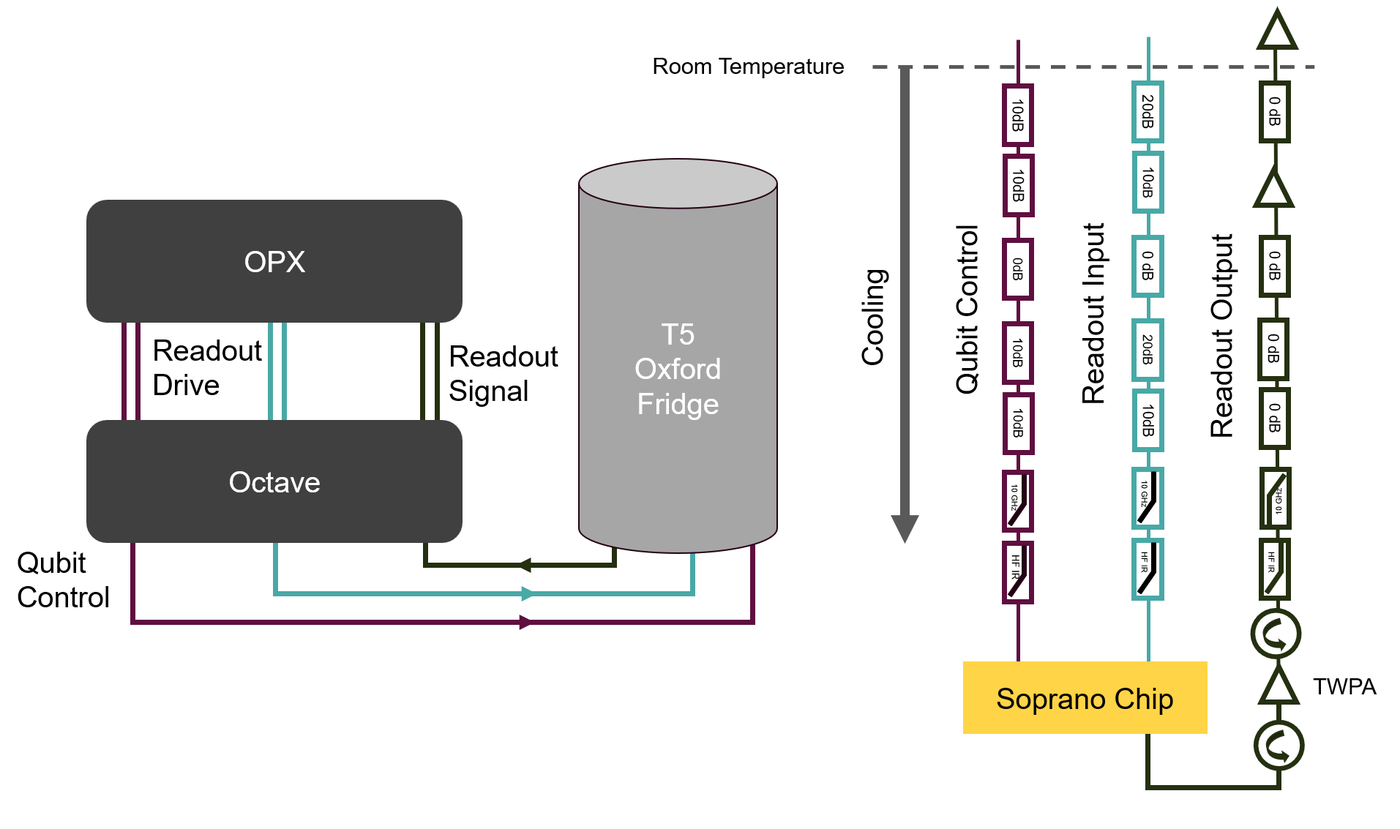
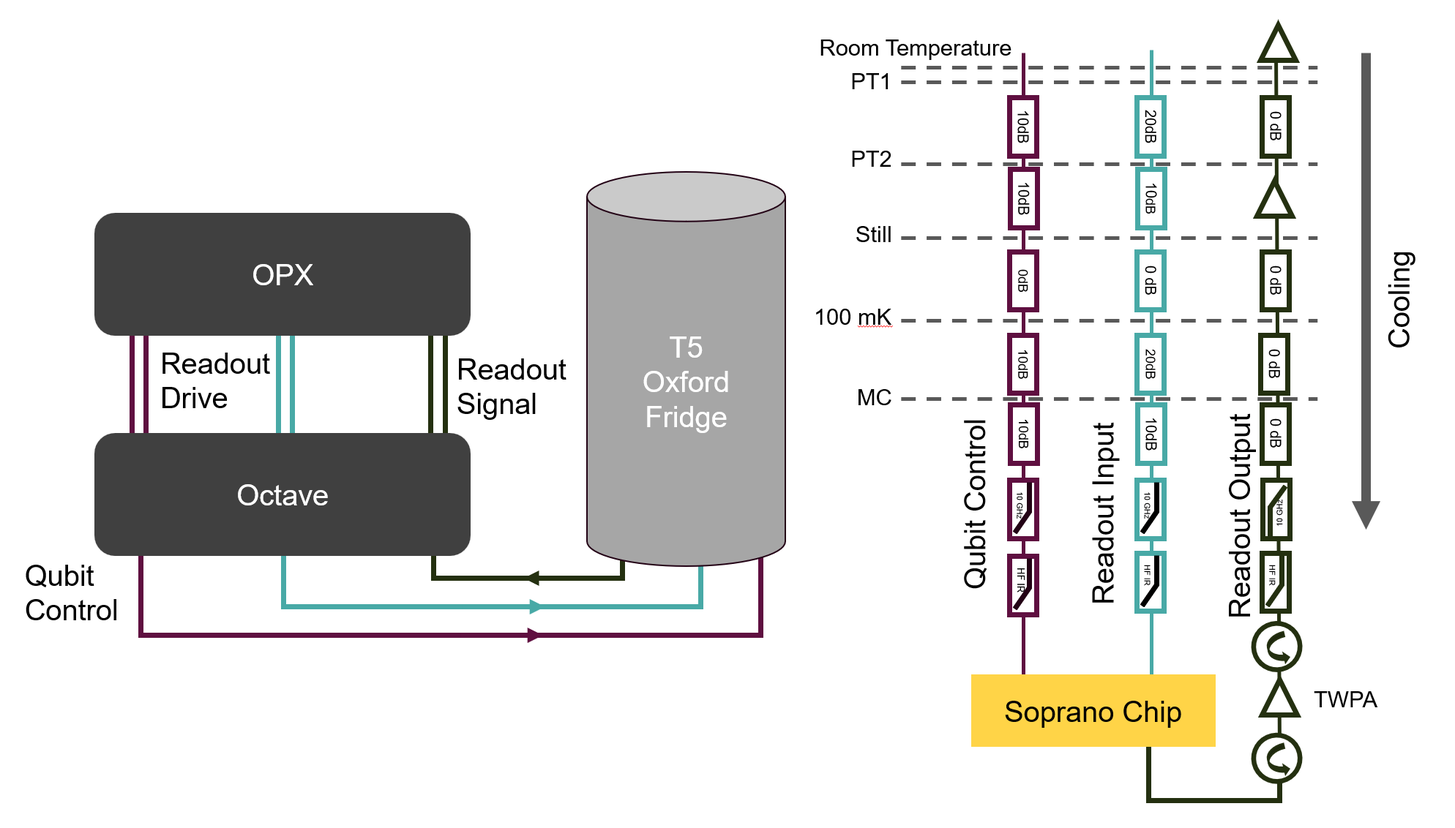
Updates from Overleaf

Changed region(s): [[0.0, 0.0, 0.9869, 0.9894], [0.1542, 0.5565, 0.2467, 0.6184]]

diff --git a/tex/sections/6_reaodut_strategies.tex b/tex/sections/6_reaodut_strategies.tex
@@ -3,7 +3,7 @@ We will now determine how well readout can be done on our experimental setup. In
 % With the knowledge of how readout are carried out, we are now ready to take on the actual readout process. In this chapter, we will be performing the analysis of a readout process from the laboratory to determine how good it is.
 
 \section{Experimental Setup}
-We will first provide an overview of the experimental setup consisting of three main parts: the quantum device, where the qubit is, the control hardware at room temperature and how it is connected as well as cooled.
+We will first provide an overview of the experimental setup consisting of three main parts: the quantum device, the control hardware at room temperature, and how it is connected as well as cooled.
 
 % While most of the work in this thesis will be theoretical and computational, we will try to understand, calibrate and model a physical system. This section will serve as a short overview of the setup.
 % \todo{Write this section properly.}
@@ -12,26 +12,20 @@ We will first provide an overview of the experimental setup consisting of three 
 The experiments are run on the Soprano Chip with 6 qubits. We run all experiment on qubit 2 (see figure \ref{fig:soprano}) and will effectively think of the whole system as a one qubit system. Qubit 2 is a flux tuneable transmon which is connected to a resonator, a control line and flux line used to tune the frequency. The resonator is connected to a feed line which is further connected to the five other resonators. While the qubit is flux tuneable, we will throughout all experiments have it set to the sweet spot,  where we are the least sensitive to flux noise. 
 
 \begin{figure}[h]
-    \begin{minipage}{0.50\textwidth}
-        \centering
-        \includegraphics[height = 5 cm]{Figs/hardware/layout.png}
-    \end{minipage}
-        \begin{minipage}{0.50\textwidth}
-        \centering
-        \includegraphics[height = 5 cm]{Figs/hardware/layout_photo.png}
-    \end{minipage}
-    \caption{The Soprano Chip layout and a picture of the chip. Experiments are run on Qubit 2 labeled "q2" in the schematic.}
+    \centering
+    \includegraphics[width = \textwidth]{Figs/hardware/qubit.png}
+    \caption{The Soprano Chip layout without indicated feed lines and couplings to qubit 2 which is used.}
     \label{fig:soprano}
 \end{figure}
 
 \subsection{Control Hardware}
 In order to control the qubit and drive the resonator, we need to be able to create pulses with the right frequency and envelope. For this, we use an arbitrary waveform generator and data processing device. In this experiment, this is done with an OPX \cite{noauthor_opx_nodate}. The OPX outputs two signals to drive the qubit and two to the readout line corresponding to the $I$ and $Q$ signal. And has two input channels for readout signal. The envelope of the pulses can be made with a resolution of 1 GS/s and can process waves with a frequency of 400 MHz. In addition, it has an on-board Field-programmable gate array (FPGA) which is used to compile pulses and demodulate the signal. 
 
-Since the signal needed for qubit and resonator control is of order 5-10 GHz, another device for up- and down-conversion is needed. In our experiment, we make use of the Octave \cite{noauthor_octave_nodate}. The Octave has multiple local oscillators for down converting signal one of which support up conversion as well. The upconversion is used for the readout line while another local oscillator is used to generate pulses for qubit control. A schematic of the control hardware setup can be seen to the left in figure \ref{fig:Fridge_control_hardware_setup}.
+Since the signal needed for qubit and resonator control is of order 5-10 GHz, another device for up- and down-conversion is needed. In our experiment, we make use of the Octave \cite{noauthor_octave_nodate}. The Octave has three local oscillators for down converting signal one of which support up conversion as well. The upconversion is used for the readout line while another local oscillator is used to generate pulses for qubit control. A schematic of the control hardware setup can be seen to the left in figure \ref{fig:Fridge_control_hardware_setup}.
 
-The two control devices are controlled by using accessing an API using Python. For this thesis the higher level module OPX\_Control was used which simplifies writing and running experiment using the OPX and Octave \cite{hastrup_cqed_nodate}. 
+The two control devices are controlled by using QUA  an API using Python. For this thesis the higher level module OPX\_Control\cite{hastrup_cqed_nodate}. , an in-house developed module based on QUA which   was used which simplifies writing and running experiment using the OPX and Octave 
 
-In addition to the driving lines, a DC line is also coupled directly from the OPX to the fridge to adjust the flux in the qubit. This will be constant for all experiments in the qubit sweet spot, so we will for the most part ignore it for now. 
+In addition to the driving lines, a line from the OPX is also coupled directly to the fridge which is used to adjust the flux in the qubit and thereby its frequency. This will be constant for all experiments at the qubit sweet spot, so we will for the most part ignore it for now. 
 
 
 \begin{figure*}[t]
@@ -43,15 +37,15 @@ In addition to the driving lines, a DC line is also coupled directly from the OP
 
 
 \subsection{Cooling and Amplifiation}
-To keep the soprano chip just above the absolute zero, it is places in a Cryostate capable of cooling to $\approx 30 \text{mK}$. In the right side of  figure \ref{fig:Fridge_control_hardware_setup}, we have illustrated the qubit and resonator drive line from room temperature to the chip, and the returning signal from the resonator and up to room temperature again. For simplicity, we have only illustrated one microwave control line, one readout drive line and one readout signal line\footnote{There are many others which share similar ideas. These consists of other qubit conotrl lines, flux lines and a line for a local oscillator to drive the TWPA}.
+To keep the soprano chip as close to the absolute zero as possible, it is places in a Cryostate capable of cooling to $\approx 30 \text{mK}$. In the right side of  figure \ref{fig:Fridge_control_hardware_setup}, we have illustrated the qubit and resonator drive line from room temperature to the chip, and the returning signal from the resonator and up to room temperature again. For simplicity, we have only illustrated one microwave control line, one readout drive line and one readout signal line\footnote{There are many others which share similar ideas. These consists of other qubit conotrl lines, flux lines and a line for a local oscillator to drive the TWPA}.
 
 The down conversion lines receive signal from the Octave and decreases the amplitude of the signal at multiple stages. At low temperatures high frequency signals are filtered out before the signal is applied to the qubit or to the resonator through the drive line.
 
-Since the output signal is of order of 10-100 photons, it is a high risk to be lost to thermal noise in the upconversion line. Therefore, multiple highly sophisticated amplification are needed. The first of which is Traveling Wave Parametric Amplifier (TWPA) \cite{mac}. The TWPA amplifies at low temperature and adds noise close to that of theoretical minimum. After the TWPA two other amplification are performed, before the signal exits the fridge and reenters the octave for IQ mixing. 
+Since the output signal is of order of 10-100 photons, it is a high risk to be lost to thermal noise in the upconversion line. Therefore, multiple highly sophisticated amplification are needed. The first of which is Traveling Wave Parametric Amplifier (TWPA) \cite{macklin_nearquantum-limited_2015}. The TWPA amplifies at low temperature and adds noise close to that of theoretical minimum. After the TWPA two other amplification are performed, before the signal exits the fridge and reenters the octave for IQ mixing. 
 
 
 \subsection{Demodulation of Readout Signal}\label{sec:demodulation}
-To do a readout of the resonator, a pulse is send at an intermediafe frequency, $\omega_{IF}$ from the waveform generator to the octave where it is mixed with a local oscillator signal, $\omega_{LO}$. This results in a high frequency pulse send to the fridge at the readout frequency.
+To do a readout of the resonator, a pulse is send at an intermediate frequency, $\omega_{IF}$ from the waveform generator to the octave where it is mixed with a local oscillator signal, $\omega_{LO}$. This results in a high frequency pulse send to the fridge at the readout frequency.
 
 After interacting with the resonator it is amplified and it enters the Octave with the form:
 \begin{equation}
@@ -172,7 +166,7 @@ To determine the readout fidelity of our superconducting qubit, we will now do t
     \item We now apply a rectangular\footnote{We have a 10 $ns$ ramp-up and ramp-down period to avoid "kicking" the system". This is neglected in our analysis and later in simulations} resonator pulse at frequency $f_d = f_r$ (in between the two states shift) lasting $600 \text{ns}$. This starts movement in the IQ plane  analogous to what was described in section \ref{sec:resonator_decays}. The feed line output signal is monitored using a heterodyne measurement-scheme which we described in section \ref{sec:demodulation}. This leads to I and Q signal which is tracked digitized every $ns$ and stored for post processing.
     \item Steps 1-3 are repeated 1000 times for initialization $\rho_0$ and for initialization $\rho_1$.
 \end{enumerate}
-In the post processing (which is visualized in the top row of figure \ref{fig:readout_process}), we have the initialization label and the I and Q trajectories of the readout pulse. By demodulating them at the intermediate frequency and integrating the signal we arrive at one value set for $(I, Q)$. Plotting the distribution, we can find the projection line with the largest separation using Linear Discriminant Analysis. This is done by using the implementation in SKLearn \cite{predregoske_sklearn}. This allows us to project all points onto the axis resulting in a 1D histogram. By picking the threshold which maximizes the fidelity, we have a measure for the fidelity of this readout protocol. In our experiment this lead to the fidelity.
+In the post processing (which is visualized in the top row of figure \ref{fig:readout_process}), we have the initialization label and the I and Q trajectories of the readout pulse. By demodulating them at the intermediate frequency and integrating the signal we arrive at one value set for $(I, Q)$. Plotting the distribution, we can find the projection line with the largest separation using Linear Discriminant Analysis. This is done by using the implementation in SKLearn \cite{pedregosa_scikit-learn_nodate}. This allows us to project all points onto the axis resulting in a 1D histogram. By picking the threshold which maximizes the fidelity, we have a measure for the fidelity of this readout protocol. In our experiment this lead to the fidelity.
 \begin{equation}
     F_{\text{SPAM}} = 0.613\pm 0.018
 \end{equation}

diff --git a/tex/sections/7_calibration_from_IQ.tex b/tex/sections/7_calibration_from_IQ.tex
@@ -9,7 +9,7 @@ To simulate qubit-resonator trajectories of a readout, we will have to create a 
 We will start with a calibration of the Transmon. While we could solve the system by finding the values of $E_C$ and $E_J$, we will instead model the Transmon as a three level system and simulate the charge matrix as $\mel{k}{n}{k} = a + a^\dagger$\footnote{This gives us the right correlation between $\ket{0}\leftrightarrow \ket{1}$ and a close to correct connection from $\ket{1}\leftrightarrow\ket{2}$}. This leaves us to determine the frequency $f_{01}$ and the anharmonicity $\alpha$. Furthermore, in order to perform gates, we will calibrate a Rabi pulse. In addition to these parameters, we will determine the characteristic time for energy decay and dephasing  $T_1$ and $T_2$.
 
 \subsection{Spectroscopy}\label{sec:qubit_spectroscopy}
-To control the qubit and to simulate its Hamiltonian, perhaps the most important quantity is the frequency. The frequency is found by doing spectroscopy, where a pulse is sent to the qubit at different frequencies. The qubit is then measured to see if it has changed states. The qubit frequency $f_{01}$ will now be the center of a Lorentzian distribution \cite{hucul_trapped_ion}. Thus we can determine $f_{01}$ by fitting such a curve. This is done in the left panel in figure \ref{fig:qubit_spectroscopy}.
+To control the qubit and to simulate its Hamiltonian, perhaps the most important quantity is the frequency. The frequency is found by doing spectroscopy, where a pulse is sent to the qubit at different frequencies. The qubit is then measured to see if it has changed states. The qubit frequency $f_{01}$ will now be the center of a Lorentzian distribution \cite{hucul_spectroscopy_2017}. Thus we can determine $f_{01}$ by fitting such a curve. This is done in the left panel in figure \ref{fig:qubit_spectroscopy}.
 
 Since the design of the transmon gives a negative anharmonicty, we can extend the qubit spectroscopy, to also look for a transition from $\ket{0}\to \ket{2}$. This can be done either with $f_{02}$ or to stay in the frequency regime, we can instead look for a transition from absorption of two photons. Here the two photon will have frequency $f_{02} / 2$. Or formulating it in terms of the anharmonicity at $f_{01} - \alpha / 2$. A fit with two Lorenzians can be found in the right panel in figure \ref{fig:qubit_spectroscopy}. 
 % \begin{margintable}
@@ -55,7 +55,7 @@ In section \ref{sec:how_to_make_gates}, we saw how one can make an x- and y-gate
     \caption{The pulse sequence to determine the rabi amplitude. By varying the amplitude depicted with $\Omega$ and reading out the signal, the optimal $\Omega$ can be determined.}
     \label{fig:rabi_experiment}
 \end{marginfigure}
-The amplitude is determined by an experiment, where we initialize the qubit in state $\ket{0}$ and do a pulse with a frequency $\omega_d = \omega_q$ and amplitude $\Omega$ before reading it out. We will see oscillations depending on the area of the curve. Each top will correspond to a $\pi +n2\pi$ rotation around the $x$-axis, where the qubit will be in $\ket{1}$ and the bottoms will be at $2\pi n$ rotations, where the qubit is back in $\ket{0}$. With a cosine fit, we can pick the amplitude yielding us the $\pi$ rotation. To go from this pulse to a $\pi/2$ rotation, we can simply pick half of the $X_{\pi}$ amplitude \cite{Naglihou}. A schematic of the experiment is shown in figure \ref{fig:rabi_experiment} and the results from the experiment can be seen along with the cosine in figure \ref{fig:calibration_rabi}.
+The amplitude is determined by an experiment, where we initialize the qubit in state $\ket{0}$ and do a pulse with a frequency $\omega_d = \omega_q$ and amplitude $\Omega$ before reading it out. We will see oscillations depending on the area of the curve. Each top will correspond to a $\pi +n2\pi$ rotation around the $x$-axis, where the qubit will be in $\ket{1}$ and the bottoms will be at $2\pi n$ rotations, where the qubit is back in $\ket{0}$. With a cosine fit, we can pick the amplitude yielding us the $\pi$ rotation. To go from this pulse to a $\pi/2$ rotation, we can simply pick half of the $X_{\pi}$ amplitude \cite{naghiloo_introduction_2019}. A schematic of the experiment is shown in figure \ref{fig:rabi_experiment} and the results from the experiment can be seen along with the cosine in figure \ref{fig:calibration_rabi}.
 \begin{figure}
     \centering
     \includegraphics{Calibrations/Figures/Rabi.pdf}
@@ -141,7 +141,7 @@ Where we again should be careful about using this as more than an estimate becau
 With the qubit calibrated, we will move on to the resonator. The resonator is modelled as a quantum harmonic oscillator, so the non-interacting Hamilton is completely determined by its frequency, $f_r$. However, the interaction with the qubit required us to calibrate the dispersive shift and the coupling strength $g$. To model the coupling to its environment we determine the photon dissipation rate $\kappa$,  and lastly we will estimate steady state photon number, $\Bar{n}_{\text{ss}}$ which is closely related to the amplitude of the drive pulse, $\epsilon$.
 
 \subsection{Spectroscopy}
-Like the qubit, we can perform resonator spectroscopy to find the frequency. Because of the dispersive interaction (described in section \ref{sec:dispersive_regime}, we will get a different frequency when the qubit is in $\ket{0}$ or in $\ket{1}$ and we will have to do the experiment with both initialization. Since the the photons in the resonator have an exponential lifetime, the frequency spectrum will have Lorentzian curve around the resonance frequency. The experiment and the associated fits can be seen in figure \ref{fig:spectroscopy_resonator}. Since $\ket{1}$ decays to $\ket{0}$ in many cases, we have added a second Lorentzian to the fit of resonator when the qubit is excited state. In addition, we have limited the fitting points to be around the peak, since the background is not constant but also have some oscillations which we contribute to a finite-size demodulation window \cite{resonator_spectroscopy}.
+Like the qubit, we can perform resonator spectroscopy to find the frequency. Because of the dispersive interaction (described in section \ref{sec:dispersive_regime}, we will get a different frequency when the qubit is in $\ket{0}$ or in $\ket{1}$ and we will have to do the experiment with both initialization. Since the the photons in the resonator have an exponential lifetime, the frequency spectrum will have Lorentzian curve around the resonance frequency. The experiment and the associated fits can be seen in figure \ref{fig:spectroscopy_resonator}. Since $\ket{1}$ decays to $\ket{0}$ in many cases, we have added a second Lorentzian to the fit of resonator when the qubit is excited state. In addition, we have limited the fitting points to be around the peak, since the background is not constant but also have some oscillations which we contribute to a finite-size demodulation window \cite{krantz_quantum_2019}.
 \begin{figure}
     \centering
     \includegraphics{Calibrations/Figures/Resonator Spectroscopy.pdf}
@@ -302,7 +302,7 @@ In this experiment, we will do a long continuous readout pulse of the resonator.
 %     \end{tabular}
 %     \label{tab:continous_calibration_decays_results}
 % \end{margintable}
-From the results of the fitted parameters (see table \ref{tab:continous_calibration_decays_results}), we can extract the decay time, the initial fraction and the steady state fraction of occupancy in the excited state $\ket{1}$. We initialized both in $\ket{1}$ and $\ket{0}$, but since the state ground state initialization is already in steady state, we will not trust the fit parameters. While the idea of the method originally was to determine $T_1$ with a fast scheme, the important aspect for this thesis is to extract the temperature from the steady state fraction. We find the temperature from the Boltzmann factor in the steady state:
+From the results of the fit, we can extract the decay time, the initial fraction and the steady state fraction of occupancy in the excited state $\ket{1}$. We initialized both in $\ket{1}$ and $\ket{0}$, but since the state ground state initialization is already in steady state, we will not trust the fit parameters. While the idea of the method originally was to determine $T_1$ with a fast scheme, the important aspect for this thesis is to extract the temperature from the steady state fraction. We find the temperature from the Boltzmann factor in the steady state:
 \begin{fullwidth}
 \begin{equation}
     \frac{\rho_{00}(t=\infty)}{\rho_{11}(t=\infty)} = e^{(E_1 - E_0) / k_b \tau} \Rightarrow \tau = - \frac{\hbar \omega_{01}}{k_b} / \log\left(\frac{\rho_{00}(t=\infty)}{\rho_{11}(t=\infty)}\right)  =  (0.13 \pm 0.04) \text{ K}

diff --git a/tex/sections/8_building_model.tex b/tex/sections/8_building_model.tex
@@ -83,7 +83,7 @@ To confirm, we have also done a simulation of a "weak" readout pulse both in the
 
 \FloatBarrier
 
-\subsection{Q Function and Trajectories}
+\subsection{Q Function and Trajectories}\label{sec:trajectories_and_qfunc}
 In section \ref{sec:IQ_phase_space}, we introduced the Q-Function to determine the phase space probability of finding the resonator with a specific $I, Q$ value set. With the speed-up and accuracy\footnote{Going from order $1.5 \rightarrow 12$ reduces errors significantly} the Lindblad equation has over the Stochastic Master Equation, one might ask, why we went through the trouble of introducing and coding it. To come with an answer, we will  compare the Q function to the measurement trajectories of the Stochastic Master Equation.
 
 As a start, we might have to revisit the interpretation of the density matrix. In the example, we had in section \ref{sec:density_with_env} the mixed state came from someone (or something) measuring our state without our knowledge. This left us with a state that if we repeat the experiment would yield $\ket{0}$ half of the time and $\ket{1}$ in the other half. In the Lindbladian formulation the density matrix can be formulated as an ensemble average, that if we do it multiple times, we would arrive at this outcome. For the SME, we measure it in the meantime. The information here, would no longer be an ensemble average in the same way, but slowly collapse to one of the states in the ensemble. This is what we are calling unraveling. 
@@ -132,7 +132,7 @@ Averaging over all possible trajectories reduces the Stochastic Master Equation 
 \section{Timesteps and the Size of the Hilbert Space}\label{sec:hilbert_space}
 To complete our simulation tool, we still have to decide on the proper size of the Hilbert Space and the size of the time steps. 
 
-To determine the size of the timestep, we utilize some functionality in the Qutip library. One trick here is that the Adams algorithm actually calculates a 13th order integration step. If the Taylor series converges, then the difference between the 13. and 12. order term will be larger than the leftover error and we can set a threshold on the accuracy we accept \cite{KALKULUS}. Qutip allows for up to 2500 substeps per timestep and if the error is still to large it terminates and raises an error \cite{johansson_qutip_2012}. This means, we should just set the resolution to the lowest without raising an error. To be safe, we set it a bit higher and simulate the readout of $600 \text{ ns}$ in $10 \text{ ns}$ intervals (which then allow for up to 2500 substeps). %\todo{The Adams algorithm further allows up to a certain amount of subcalls to algorithm which is adjusted based on the error}
+To determine the size of the timestep, we utilize some functionality in the Qutip library. One trick here is that the Adams algorithm actually calculates a 13th order integration step. If the Taylor series converges, then the difference between the 13. and 12. order term will be larger than the leftover error and we can set a threshold on the accuracy we accept \cite{lindstrom_kalkulus_2016}. Qutip allows for up to 2500 substeps per timestep and if the error is still to large it terminates and raises an error \cite{johansson_qutip_2012}. This means, we should just set the resolution to the lowest without raising an error. To be safe, we set it a bit higher and simulate the readout of $600 \text{ ns}$ in $10 \text{ ns}$ intervals (which then allow for up to 2500 substeps). %\todo{The Adams algorithm further allows up to a certain amount of subcalls to algorithm which is adjusted based on the error}
 
 The Taylor Milstein 1.5 scheme also checks error bounds. With the stochastic term it is however not as reliable and with a low time resolution the measurement records can include NaN values. A resolution which seems to work is running $2 \text{ ns}$ when the efficiency is low, and increasing the resolution to $1 \text{ ns}$ when testing the efficiencies $\eta > \frac13$, where the stochastic terms are large. 
 
@@ -176,7 +176,7 @@ Which is close to the actual experiment. Comparing the two, we find a $z$-score\
     \end{tabular}
     \label{tab:ks_test}
 \end{margintable}
-While the number is close, we can also compare the distributions. In figure \ref{fig:distributions_for_ks}, we compare the distribution for all trajectories and for the ground and excited state separately. We can use these distributions to calculate a 2 sample Kolmogorov Smirnov Test\cite{Panchenko_kolmogorovSmirnov} to test the probability, that the distributions come from the same statistic. The results of this test is shown in table \ref{tab:ks_test}. We see great correspondence between the full distribution, but the individual distribution are still not convincing (at $5 \%$ and $6\%$). Specifically we see that the ground state peak in the excited state is a bit to the right. While this could be a random artifact, we expect the mixed state to be more anti-symmetric since the X-gate is not perfect. Furthermore, the inclusion of the second excited state, will end up having around $1-2 \%$ of the trajectories following another path for both of the initilizations.
+While the number is close, we can also compare the distributions. In figure \ref{fig:distributions_for_ks}, we compare the distribution for all trajectories and for the ground and excited state separately. We can use these distributions to calculate a 2 sample Kolmogorov Smirnov Test\cite{panchenko_lecture_nodate} to test the probability, that the distributions come from the same statistic. The results of this test is shown in table \ref{tab:ks_test}. We see great correspondence between the full distribution, but the individual distribution are still not convincing (at $5 \%$ and $6\%$). Specifically we see that the ground state peak in the excited state is a bit to the right. While this could be a random artifact, we expect the mixed state to be more anti-symmetric since the X-gate is not perfect. Furthermore, the inclusion of the second excited state, will end up having around $1-2 \%$ of the trajectories following another path for both of the initilizations.
 
 
 \begin{figure}

diff --git a/tex/sections/10_conclusion.tex b/tex/sections/10_conclusion.tex
@@ -12,7 +12,7 @@ By changing parameters to the ideal values, we used the realistic model to estim
 During the learning, writing and coding  for thesis thesis, my overview of the field and the methods have developed significantly. Of course, this means that looking back at the w, there are many things I would have liked to do differently, in another order or maybe should not have shelved. With the overview multiple paths have also presented themselves as the continuation of this work. In addition to model optimization and inclusion of smaller details, this last part of the thesis will cover a short presentation of the next steps.
 
 \subsection{Fitting the Model to Trajectories}
-In this thesis, the model was made by calibrating the qubit using different methods for each parameter. Instead, we could explorer if the model could be directly fitted to the data to retrieve the calibrated parameters. We saw in figure \ref{trajectories_and_qfunc} that convolving the q-function with a Gaussian, we get a good estimate for distribution of the readout record at a given time. One could imagine using this to calculate the log.likelihood of each point at each time given a set of parameters. If we consider this a cost function, we can leverage the development of ODE integration techniques in deep learning libraries. This allow us to maximize the likelihood by tuning the parameters, where the gradients can be found by either autograd methods or by the adjoint state method. \cite{allaire}
+In this thesis, the model was made by calibrating the qubit using different methods for each parameter. Instead, we could explorer if the model could be directly fitted to the data to retrieve the calibrated parameters. We saw in figure \ref{sec:trajectories_and_qfunc} that convolving the q-function with a Gaussian, we get a good estimate for distribution of the readout record at a given time. One could imagine using this to calculate the log.likelihood of each point at each time given a set of parameters. If we consider this a cost function, we can leverage the development of ODE integration techniques in deep learning libraries. This allow us to maximize the likelihood by tuning the parameters, where the gradients can be found by either autograd methods or by the adjoint state method. \cite{allaire_review_2015}
 
 New libraries for minimizing stochastic differential equation models have also been developed and are now already used to calibrate qubit parameters \cite{genois_quantum-tailored_2021}. In this work, the set of equation from section \ref{sec:qubit_backaction} was used to only run the simulation in a two dimensional Hilbert space where the resonator was averaged out. One could imagine reintroducing the resonator with the models presented in this thesis.
 

diff --git a/tex/sections/4_quantum_dynamics.tex b/tex/sections/4_quantum_dynamics.tex
@@ -72,7 +72,7 @@ The properties of the of the density matrix allows us describe interaction with 
 A measurement in the second system will now have an effect the state of both systems. Measuring system 2 it collapses to $\ket{i}\bra{i}$ with probability $p_i = \rho_{2, ii}$. If we however, have no knowledge of the second system, we would have to average over all the outcomes. This procedure is done by doing a \textit{partial trace} of the scond system. If we define the whole system as $\rho_{\text{total}} = \sum_{ijkl}\rho_{ijkl}\ket{i}\bra{j}\otimes\ket{k}\bra{l}$ \footnote{Often we will represent the four-index density matrix as a two dimensional by concatenating the dimensions. In this representation the four indices can be understood as indexes for block matrices. The $i, k$ indexes block matrices and $j, l$ takes the element from the given block matrix.}, tracing out system 2 would be written:
 % A measurement in the second system will collapse the fwith probability $p_i = \rho_{2, ii}$ collapse to $\ket{i}\bra{i}$ state. Averaging over these outcomes with their corresponding probability is obtained by doing a \textit{partial trace}. Writing the total density matrix, defined with four indicies: $\rho_{\text{total}} = \sum_{ijkl}\rho_{ijkl}\ket{i}\bra{j}\otimes\ket{k}\bra{l}$ \footnote{Often we will represent the four-index density matrix as a two dimensional by concatenating the dimensions. In this representation the four indices can be understood as indexes for block matrices. The $i, k$ indexes block matrices and $j, l$ takes the element from the given block matrix.}, tracing out system 2 would be written:
 \begin{align}
-    \Tr_2 (\rho_{\text{total}})   &= \Tr_2 \left(\sum_{ijkl} \rho_{ijklæ} \ket{i}\bra{j} \otimes \ket{k}\bra{l}\right) \nonumber \\
+    \Tr_2 (\rho_{\text{total}})   &= \Tr_2 \left(\sum_{ijkl} \rho_{ijkl} \ket{i}\bra{j} \otimes \ket{k}\bra{l}\right) \nonumber \\
                                     &= \sum_{ij}\sum_{kl} \rho_{ijkl} \ket{i}\bra{j} \otimes \sum_m \bra{m}  \ket{k}\bra{l}\ket{m} \nonumber \\
     &= \sum_{ijm} \rho_{ijmm} \ket{i}\bra{j}
 \end{align}
